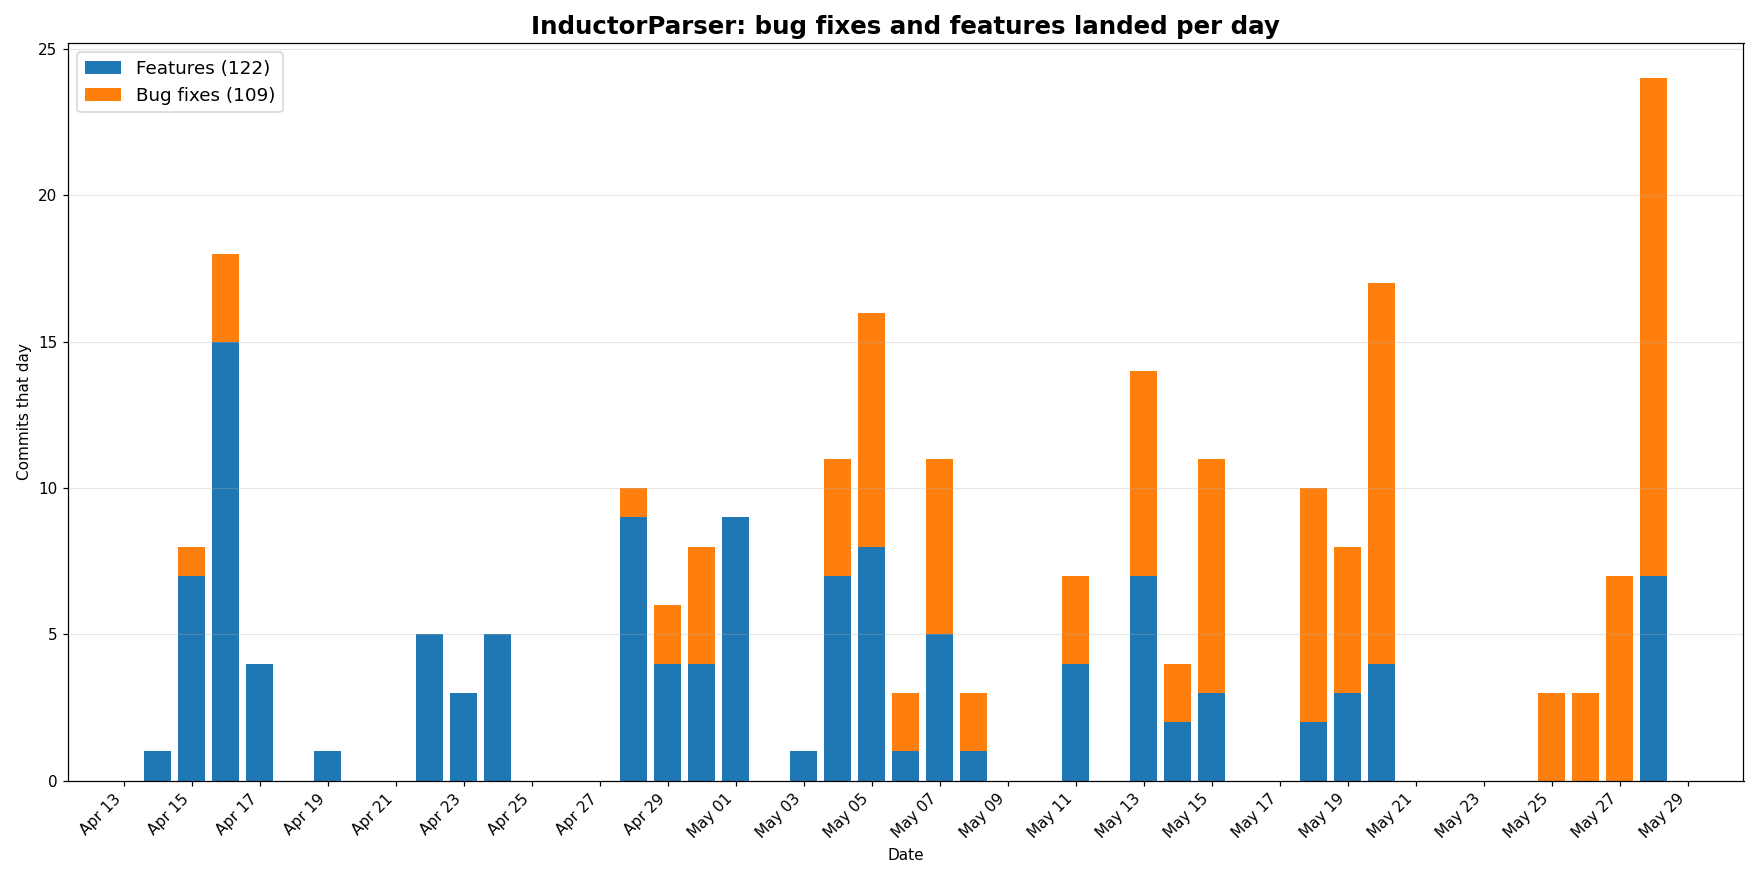
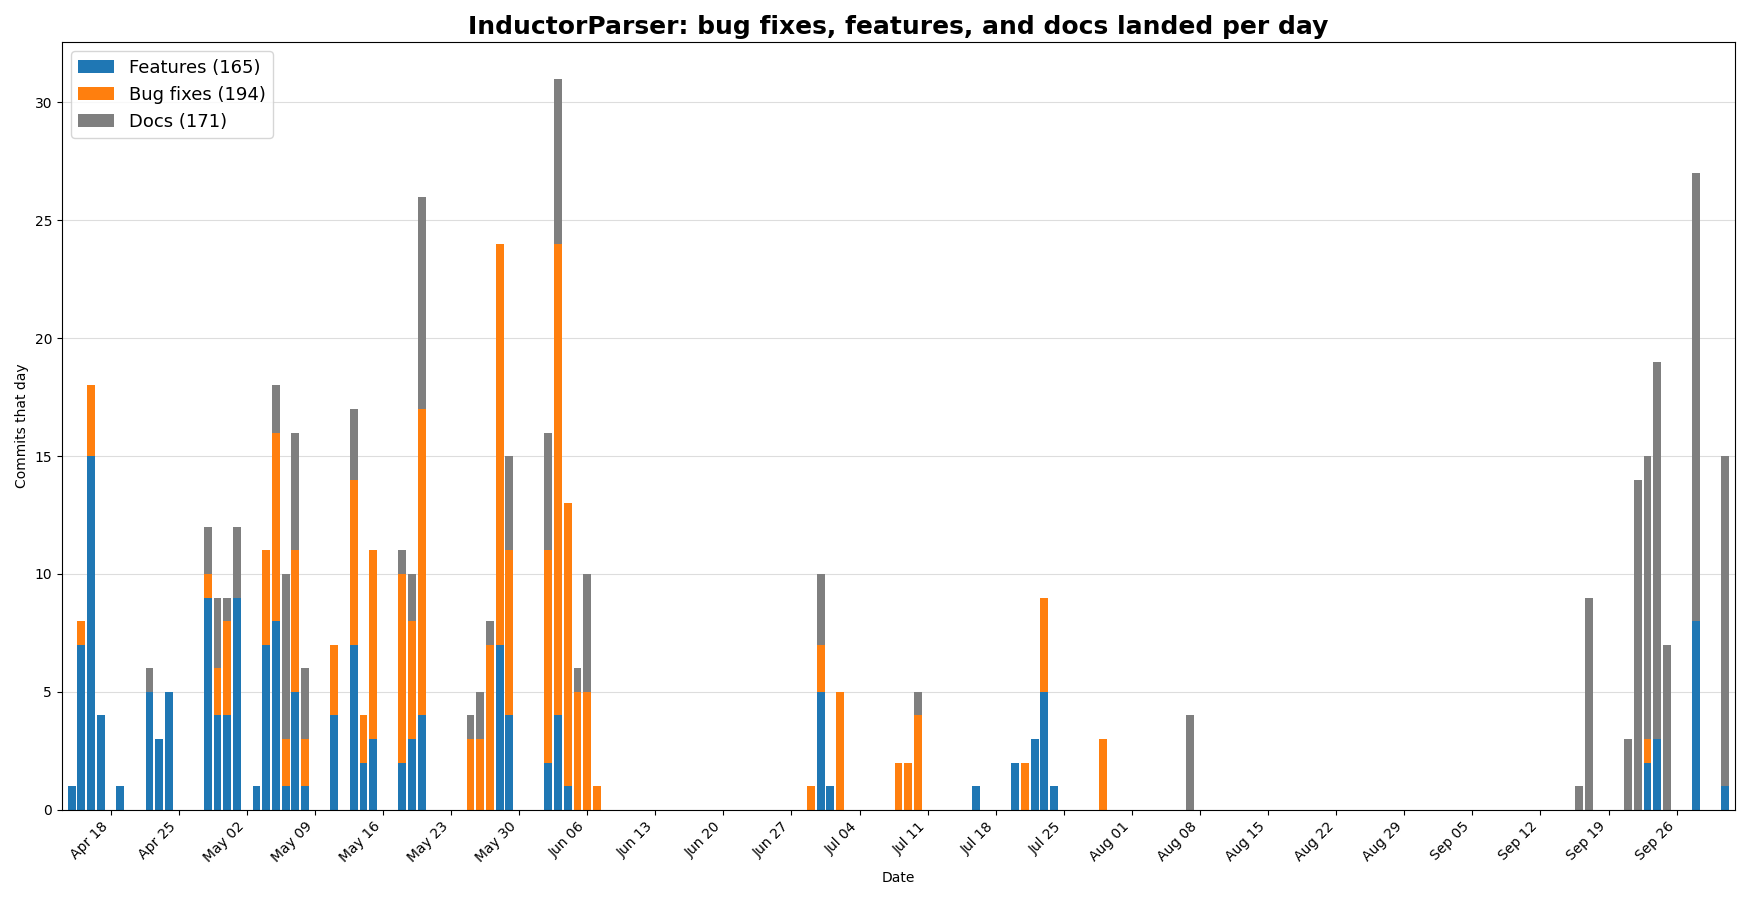
Spec: How I Built This draft, commit chart adds a Docs series through October
docs/Archive/HowIBuiltThis.md grows from three bullet notes into a
first draft of the write-up: the technology and workflow across the
design, implementation, testing, and documentation phases, and
takeaways on docs, design, code, testing, and the supporting app and
performance projects. It's Eric's own first-person text. The style
lint flagged five lines in it (two 'honestly', one 'was not', one
'pinned down', and the blockquote that quotes the 'earn' rule
verbatim), and each got the file's existing author's-own-voice marker
rather than a rewrite, since those rules govern Claude's prose, not
the author's.

bugs_features_per_day.png is regenerated from origin/master's commit
titles. It previously stopped at May 29 with two series. It now runs
April 14 to October 1 and adds a gray Docs series for Spec: commits,
stacked above features (blue) and bug fixes (orange), with totals of
165, 194, and 171. Counting Spec: moves the busiest day from May 28 to
June 3 and makes the late-September documentation pass the tallest
cluster on the right. The chart was read from origin/master rather
than the worktree's local master, which is stale (it stops at July
23) because push-to-main updates the remote without touching the
local ref.

Changed region(s): [[0.0, 0.0, 1.0, 0.9818], [0.0, 0.2148, 0.0617, 0.2455]]

diff --git a/docs/Archive/HowIBuiltThis.md b/docs/Archive/HowIBuiltThis.md
@@ -1,6 +1,105 @@
-- For building the mapping proof, and many others, I found the best way to build trust and prove that algorithms are correct, expecially for unicode, is to force references with actual quotes to be put in the text and to prove the logic chain.  
-    - Just like in code, I need to loop. Do one draft, learn, redo, update, change. Sometimes backtrack
-- as a person working solo on a project Claude is a good sounding board
+
+# How I built this
+I needed a PEG parser for a C# project I'm building so I wanted to port the C++ parser I had already open sourced to .Net. Since it was April 2026, I thought this would be a good experiment to understand the capabilities of LLMs as they stood then.
+
+I was part of the leadership team that delivered the .Net Framework 1.0, alongside [Scott Gellock](https://www.linkedin.com/in/sgellock/) and [Destry Hood](https://www.linkedin.com/in/destry-hood-336790112/) and I managed teams that delivered several other framework components afterwards. I have a lot of experience designing, building and shipping this type of product. So, I was excited to go down that same road using an LLM to get a real understanding of their strengths and weaknesses in a domain I understood deeply.
+
+## What I did
+
+### Technology
+I used VS Code and Claude for most of the project, interacting with Claude in the Anthropic Add-in they ship for it. I found OpenAI's Codex to not be as reliable (so I didn't use it outside of testing it occasionally) until about Sept 2026 which was probably GPT 5.5. At that point I used Claude and Codex interchangeably, finding Codex to be much faster but run out of tokens quicker.
+
+I used Git and 6 Git worktrees for day to day development.  Often having all 6 with a different Claude instance implementing something different. 
+
+I used the $100 a month Claude subscription and it worked well for me doing 40 hour weeks in this mode, except for a short patch in the middle of the coding phase where I upped to the $200 subscription because I was running out of tokens.
+
+### Workflow Across Project Phases
+Let's start with what I didn't do: vibe coding. This was not a "tell claude what I want and ignore the code" project. I *very much* cared and deeply reviewed what the framework looked like, its usability, performance and implementation details. <!-- style-lint-ok: author's own voice -->
+
+I acted as (from a Microsoft Job Title perspective) the Program Manager, Dev Lead and Test Lead for the project. Claude wrote 99% of the code and comments, and probably 75% of the documentation (rough estimates). I code/doc reviewed *all* of it, and we often iterated. I treated the project as my own code and design. I cared about every line.
+
+*Design Phase*: At the start of the project I worked with Claude like I'd work with the developer of an area I was responsible for Program Managing.  I laid out requirements, design goals, API sketches ("be like my C++ PEG Parsing framework") and then read through Claude's proposed plan and design. We iterated a ton until we had design docs that I agreed with.
+
+*Implementation Phase*: I mostly had my dev lead hat on here and assigned Claude coding tasks and exhaustively reviewed what it wrote. Again, much iteration on every commit here.
+
+*Code Complete/Ad Hoc Testing Phase*: I had Claude write extensive tests for each feature it wrote, but after coding was done I had it do ad hoc testing too. Here, I'd have Claude find bugs and fix them, trying as many different ways as I could to have it poke and prod the code from different directions: security, performance, usability, etc. Again, I would review the bugs, and code review the fixes. I'd make sure the test suites filled in coverage for areas where bugs exposed test gaps.
+
+*Documentation*: This happened all along the way. Any of the documents that use the first person "I" were written by me, usually with Claude suggesting edits. All the others were in reverse: Claude wrote what I asked, and I reviewed and gave edits.
+
+I treated code and documentation as "I have to sign off on this as if I wrote it", and reviewed it at that level of detail. I had to agree with design decisions, agree with and be able to explain and justify every line of code and documentation, etc. For Tests, I still reviewed the code but cared more about "does this test what it is supposed to test" than code quality per se.
+
+I let claude write all the commit messages. These I didn't review.
+
+## Takeaways
+### Docs
+I spent a lot of time trying to get Claude to write in the best way I know, i.e. *my* style. I had it analyze my reasonably extensive writing from my blog and projects and condense it into a style guide for itself and use that as its "voice". I also doggedly added items to claude.md to remove annoying style ticks it still retained. I found that this helped a little, but best was to run a "lint" pass before every commit that checked all of these rules. It almost always found violations.
+
+Here are a few examples to illustrate what was in claude.md:
+
+> Vocabulary: Never use "earn" / "earns" / "earned" / "earning" figuratively in prose or code comments to say a feature or case justifies its existence ("the case where forced earns its place", "the other two operators earn their spot", "earns its keep"). State the justification directly instead ("the case where forced is the right tool", "the other two operators are worth having because hand-enumerating the result goes stale"). The literal sense (earning money) stays. <!-- style-lint-ok: quotes the rule itself -->
+>
+> Sentence structure: Never open a sentence with a verbless topic label, a noun phrase dropped in front of the content like an inline section heading ("Start side, two parts: the head rune must be...", "Body side: every converted piece must land in...", "Fast path: the loop skips the check."). This is telegraphic style, it names the topic without saying anything about it, and Claude writes this shape often. Break the habit. Give the label a verb and make it a real sentence ("The start-side check has two parts: ...", "On the body side, every converted piece must land in...", "The fast path skips the check."). The comma-spliced count ("Start side, two parts:") gets the same treatment, fold the count into the sentence.
+
+Even with claude.md and linting, I still found lots of jargon and writing I didn't like. I iterated a *ton* on the documentation. I still think I ended up with way more extensive documentation that I would have had without Claude, but it was by no means "free".
+
+Claude is extremely prolific with comments and documentation. I ended up drastically cutting documentation and comments back as I'd review the docs in the final passes. I should have controlled this better up front: every sentence that gets written has to be reviewed. Honestly, for code comments, I wonder If I should tell Claude to not write any until asked as a way to control the volume of them. <!-- style-lint-ok: author's own voice -->
+
+
+### Design
+As a person working solo on a project, Claude is a good sounding board. I'd often have discussions about different approaches to designing the API or architecture. Claude would be great at pushing back on them with factual problems or suggesting alternatives. It was *key* to require it to back up any facts or opinions it had with real quotes from internet sources and their links. This would often (10-20% of the time?) make it back down or change opinion in some way.
+
+Once I had the architecture of the app pinned down, Claude was great a suggesting features that I wouldn't have otherwise done, mostly because I wouldn't have thought of them or didn't want to spend the time implementing them. A couple of examples: <!-- style-lint-ok: author's own voice -->
+
+- A broader-than-timeout budget system was a great idea.
+- The algorithm for mapping normalized positions to original text was Claude's, and is a novel idea as far as I can tell. However, it took my iterating with Claude for 2 weeks (!) before I believed that it was provably valid.
+
+For Claude's more complicated or new-to-me ideas, I found the best way to build trust and prove that algorithms are correct, expecially for areas like Unicode that have huge specifications, is to ask Claude to:
+1) give citations that have links and verbatim quotes to support facts it states (e.g. "Unicode allows x when y"). These are usually put in the comments or docs it writes. 
+2) prove the logic chain, step by step, and challenge it all along the way
+
+Claude was *very good* at estimating what would be slow and designing code right the first time or doing a fix and showing it improved the system. Not perfect, but very good.
+
+
+
+### Code 
+The check I did on code review was to explain and justify/poke holes in the code and comments that Claude wrote. If I didn't understand it or agree with it, I pair programmed it with Claude until I did. A few times this took a LOT of time, including a couple of optimizations that I had to cut because I really couldn't get my head around what it was doing.  Maybe that's a failing on my part or maybe claude was wrong.
+
+Claude let me compress the exploration and multiple rewrites of the project into a much shorter time. Every new framework or product I've ever worked on needed a few iterations as we learned more about the nature of the problem and this was no different. Claude made it *really* fast to completely revector an area when it was time. Some examples:
+
+- Try supporting both a Rune based and Grapheme based parser, and then settle on Grapheme
+- Try supporting a bunch of detailed perf improvements and then cut them because of complexity and maintance overhead
+- Try various different ways of modelling the TokenSet class to make it safe and usable
+- Change Compile to auto-convert grammar literals
+- Was great for fine tuning that would have taken forever and probably not gotten fixed. Things 
+like better error messages or member renames that touched 250 tests.
+
+
+
+### Testing
+This might be where I got the biggest wins because I didn't (for the most part) care *how* it tested as long as my review made me confident it worked and tested what it was supposed to. I cared about test organization, naming, and high level architecture, but let the code be whatever it was for the most part. This means the review/iterate bottleneck was much larger and the Claude multiplier here was much larger.
+
+In my opinion, this project has incredible test coverage. But it was also a TON of work to review, even though I treated the code quality with a lighter bar than the core framework.  Honestly, it's probably the level of testing and work every project should have, but tough to find a human that would be willing to write them all. Especially on an open source project. <!-- style-lint-ok: author's own voice -->
+
+- Did claude bug hunting. specific focus on security, or unicode, or edge cases
+
+- Even when random numbers are used to pick files, Claude seems to find the same bug on different worktrees when starting from different places. picking very specific test criteria like "look for threading bugs" helps, saying "find any bug" and giving it different places to look doesnt. it still seems to migrate back to the ame place from different directions
+
+
+### Supporting Projects
+In every framework I've been a part of building, we always do extensive App building, performance tuning and stress testing to focus on usability, finding bugs, flushing out the system. For this project I didn't do stress testing, but found Claude to be *spectacular* on the other two:
+
+- Did claude app building by having it rewrite MIT licensed apps from the Internet using this parser
+- Did claude performance tuning, by having it reuse an open source performance harness with existing data and tests designed for parser performance testing
+
+Using claude to build custom rules found some great issues with internal methods, etc. It was able to find custom rules that others had written on other parsers that couldn't be written as the API was designed initially.
+
+It was invaluable to get the usability and performance data from this work, and it was just the kind of detailed, tedious work that would make me want to skip it outside of the most important stuff. With Claude I went much deeper on both than I would have otherwise gone.
+
+
+
+
+## 
+
 - The amount of text and comments I have to review is enormous.
 - Incredible test coverage. But a TON of work to review.  Honestly, that's probably the level of testsing and work every project should have but tough to find a human that would be willing to write them all. <!-- style-lint-ok: author's own voice -->
 - style: lots of work changing the voice to one I liked. For example, simplifying Unicode jargon. Getting rid of verbal ticks.
